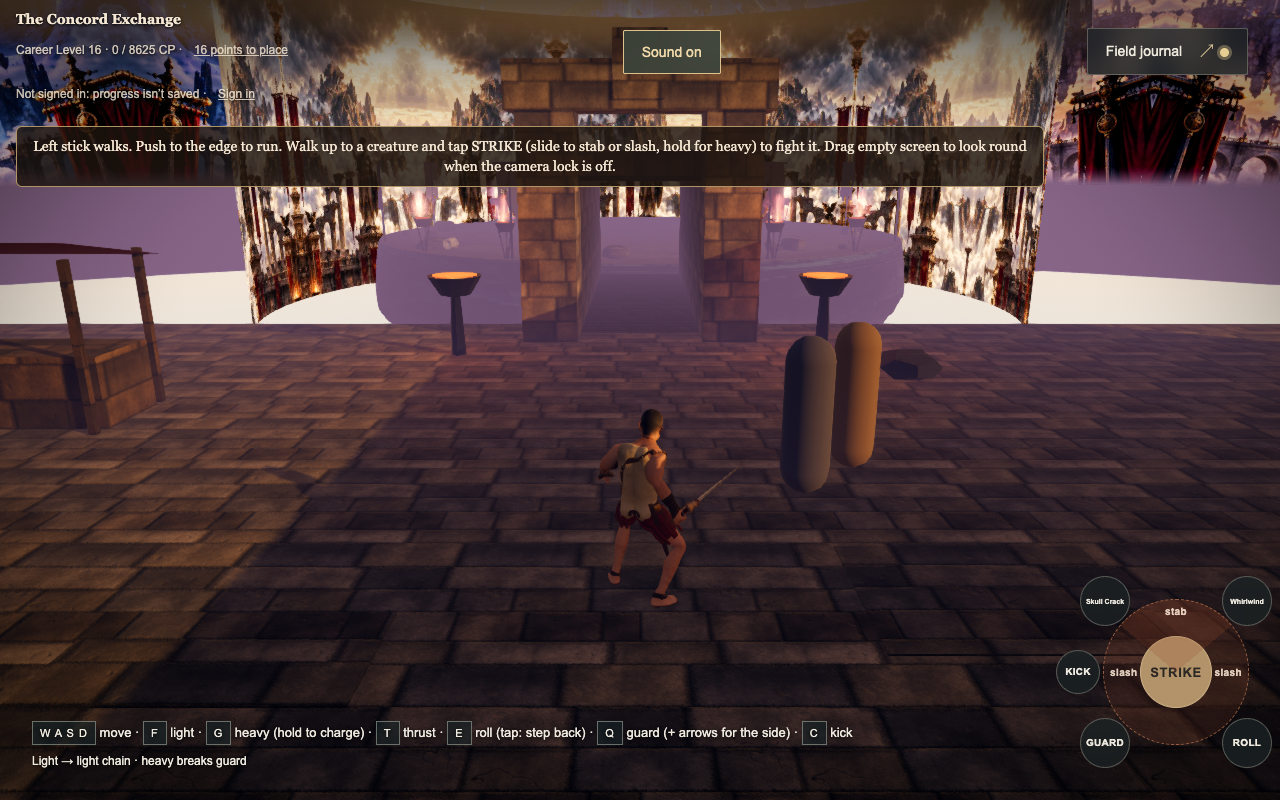
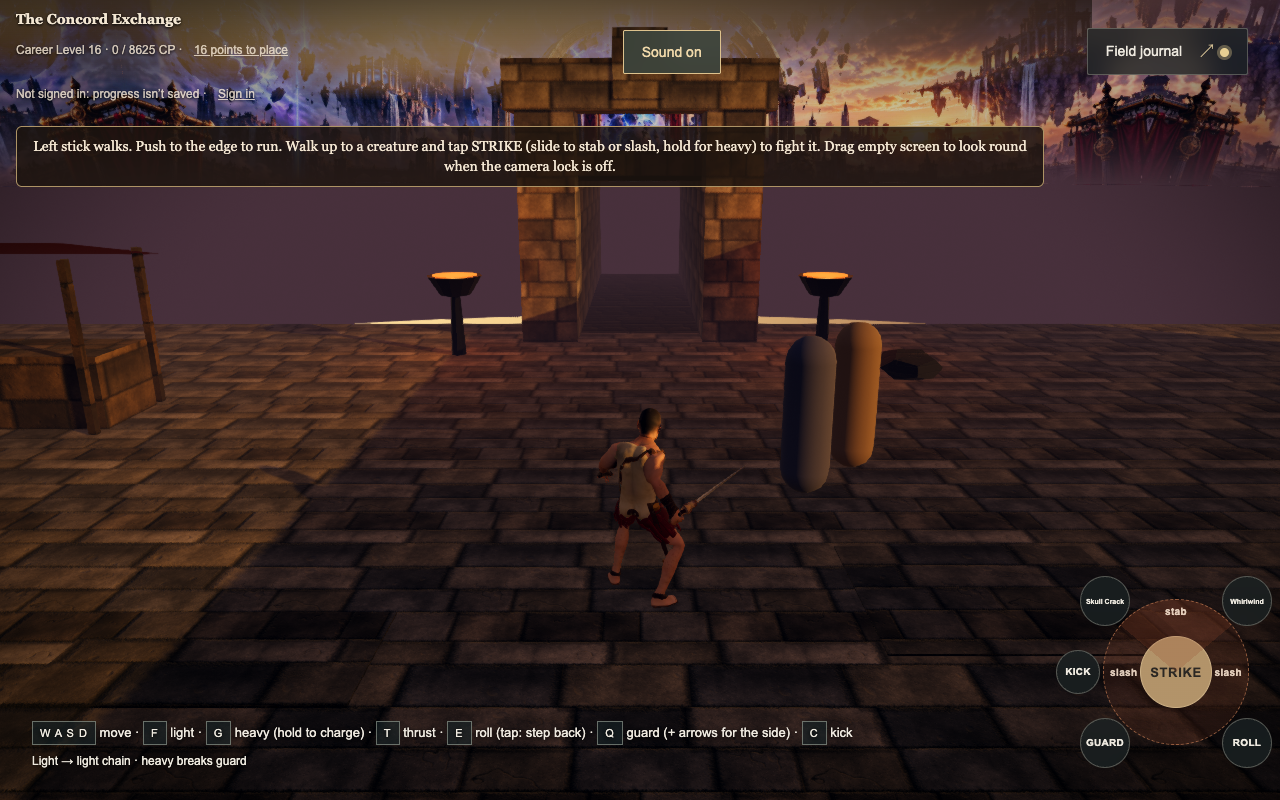
world: town look: the Pit's own scenery hidden on a page that does not own the Pit yard; plate fog/horizon at the plate's foot tones; taller plate crop, lower drop, wider foot fade (rows); stills retaken; slab probe script

diff --git a/origins/preview/main.ts b/origins/preview/main.ts
@@ -217,6 +217,7 @@ if (frontier && frontierParts) {
   if (zoneKit) void loadKit(zoneKit, undefined, groundY).then((g) => frontierGroup?.add(g)).catch(() => {}).finally(() => { settled.kit = true; stampSettled(); });   // a failed kit file only leaves the ground bare
   { const standing = [...frontierParts.models, ...(goblinKit?.models ?? [])]; modelsDrawn = !standing.length; if (standing.length) void playable.then(() => lookFrames(previewRule('deferredLookFrames'))).then(() => loadSkinModels(standing, groundY, () => lookFrames(previewRule('deferredLookGapFrames')))).then((g) => { frontierGroup?.add(g); cleanPlan = false; uploadNext = 0; }).catch(() => {}).finally(() => { modelsDrawn = true; }); }   // (the new meshes: look again at once, the last look is stale) the skin's buildings and the camp kit's modelled nodes: each model file is fetched only now, on entering this zone
   if (ZONE_SKY) void playable.then(() => lookFrames(previewRule('deferredLookFrames') + previewRule('deferredLookGapFrames'))).then(() => { zoneDome = createHorizonDome(scene, ZONE_SKY, import.meta.env.BASE_URL); areas.refresh(); const pitSky = arena.group.getObjectByName(zoneDome.covers); if (pitSky) pitSky.renderOrder = zoneDome.mesh.renderOrder - 1; return lookFrames(previewRule('deferredLookGapFrames')); }).catch(() => {}).finally(() => { domeDrawn = true; });   // a dome that failed to build must not hold the zone   // the dome (its pictures) is made once the player can play; until then the Pit's own sky shows   // a zone row's look.sky (a palette in goblin-field-defs.json) paints the horizon dome (horizon-dome.ts); a zone that names none (Zone 1) builds nothing. The Pit's own sky draws just before it, so the dome paints over it and every real object still draws in front
+  if (!frontier.zones.some((q) => q.zone === 'pit-yard')) arena.group.visible = false;   // a page whose zone row does not own the Pit yard (the town, zone 0) shows none of the Pit's sand, stands or abyss: it was the white and cream behind the town wall
   if (ZONE_SKY) { arena.group.traverse((o) => { if (goblinPitParts().includes(o.name)) pitFar.push(o); }); pitFar.push(exchange.group); }   // the Exchange (bank, smithy) goes with the Pit's scenery
   if (goblinKit) goblinSmoke = createGoblinSmoke(scene, goblinKit.fires, ZONE_SKY ?? goblinPalette());   // the camp fires' smoke and light
   play.enableBounty(bountyQuest(frontier.giver), giverTalk(frontier.giver), frontier.giver.name);
